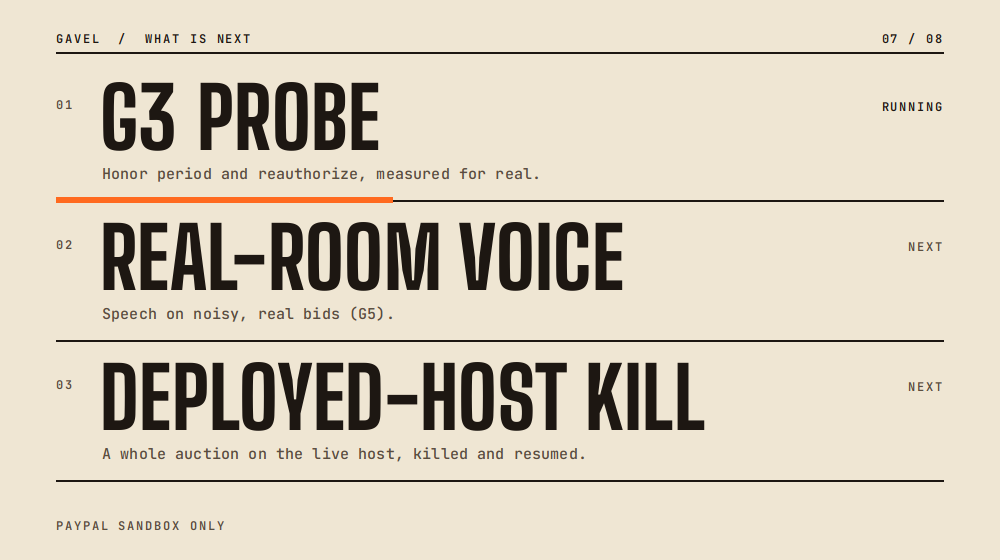
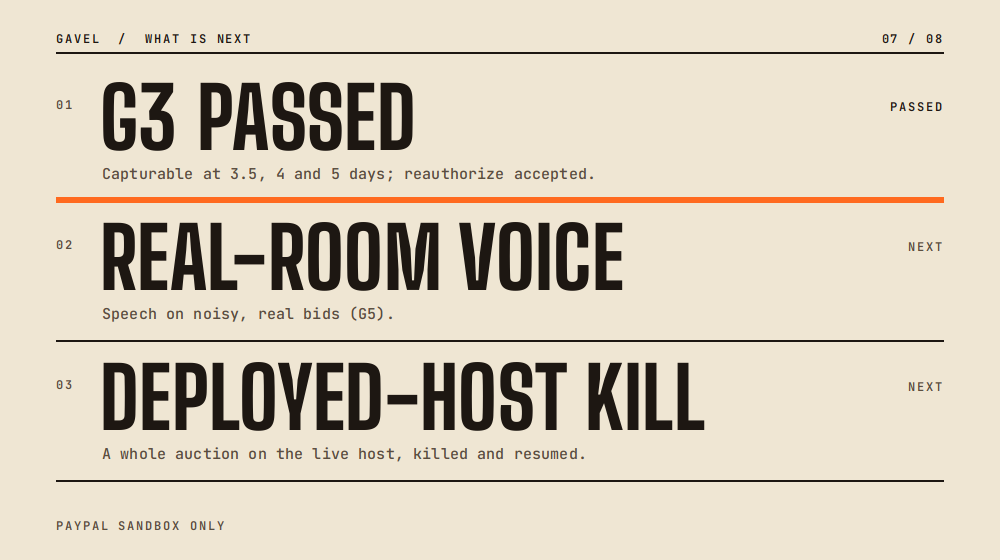
docs(docs): gallery 09 and 15 show G3 passed (#2656)

Changed region(s): [[0.093, 0.3036, 0.961, 0.3643], [0.217, 0.1214, 0.434, 0.2732], [0.868, 0.1821, 0.961, 0.2125]]

diff --git a/brand/devpost/INDEX.md b/brand/devpost/INDEX.md
@@ -2,7 +2,7 @@
 
 `brand/` is the single source for the Devpost entry. Nothing was deleted: GIFs that are not used any more were moved to `brand/archive/` or are listed below with their location. Where each used GIF goes on the page: [`FIELDS.md`](FIELDS.md) ("Where each GIF goes"). Why each one is animated or static: [`../CURATION.md`](../CURATION.md).
 
-Copy-paste submission guide, field by field with character counts and the pre-submit checklist: [`DEVPOST-COPY-PASTE.md`](DEVPOST-COPY-PASTE.md). Note (11 Nov 2026): the partner images (`description/08-partners.png`, `description/11-built-with.png`, `gallery/06-partners.png`) do not name APIMatic, and `description/09-open-data-and-gates.png` and `description/15-what-is-next.png` still show G3 as RUNNING in their pixels (the text now says passed); the APIMatic SDKs are a GitHub release (`sdk-v0.0.5`), stated in the text, not in these pixels.
+Copy-paste submission guide, field by field with character counts and the pre-submit checklist: [`DEVPOST-COPY-PASTE.md`](DEVPOST-COPY-PASTE.md). Note (11 Nov 2026): the partner images (`description/08-partners.png`, `description/11-built-with.png`, `gallery/06-partners.png`) do not name APIMatic; `description/09-open-data-and-gates.png` and `description/15-what-is-next.png` show G3 as passed (12 Nov 2026); the APIMatic SDKs are a GitHub release (`sdk-v0.0.5`), stated in the text, not in these pixels.
 
 ## Used (in the entry)
 
